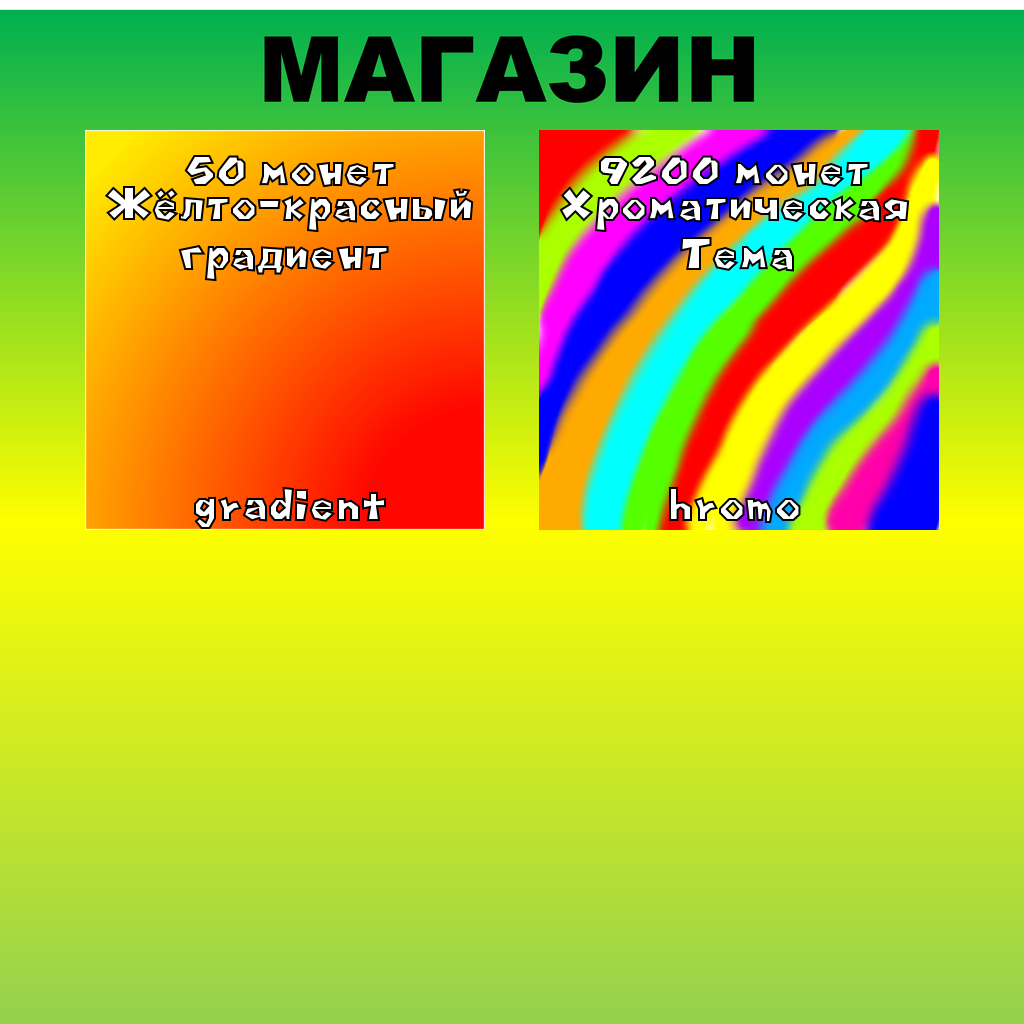
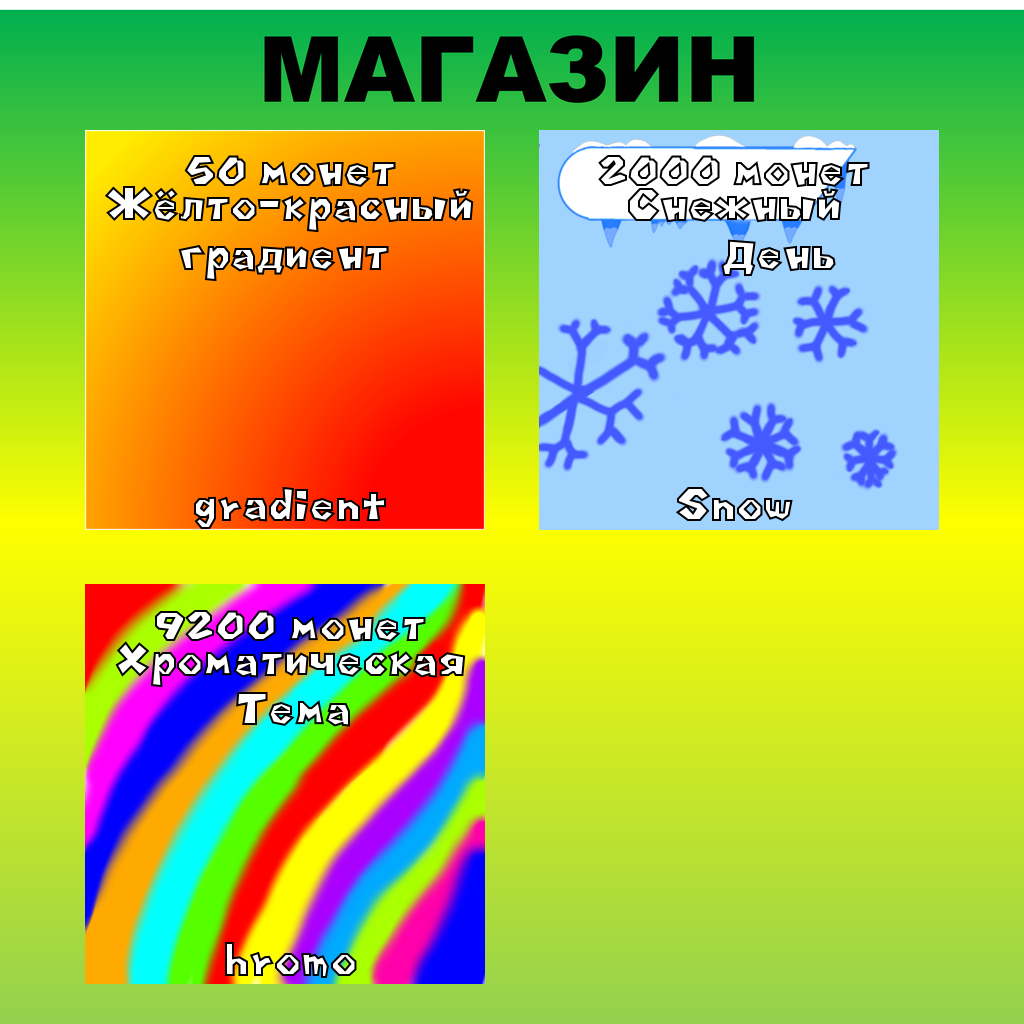
Working INVENTORY

Changed region(s): [[0.5, 0.125, 0.9375, 0.5312], [0.0625, 0.5625, 0.5, 0.9688]]

diff --git a/index.js b/index.js
@@ -28,6 +28,8 @@ client.on('messageCreate', msg => {
 
   if (msg.content.toLowerCase().startsWith('/shop'))
   {
+                    if (fs.existsSync('./data/UserData/' + msg.author.id + '/integers/exp')) 
+      {
     const args = msg.content.slice(`/био`).split(/ +/);
     if ((isNaN(Number(args[1])) == true) || (Number(args[1] == undefined)) || (args[1] == undefined || (args[1] == NaN))) { shopPage = 1} else {shopPage = Number(args[1])}
     console.log(shopPage)
@@ -87,10 +89,14 @@ shopNames.sort(function(a, b) {
 
     ctx.clearRect(0, 0, canvas.width, canvas.height);
     ctx.textAlign = 'center'
-  
+
+
+if (totalName[0] != undefined)
+{
 ctx.fillText(totalArray[0], 290, 520)
 ctx.fillText(totalPrice[0] + ' монет', 290, 185)
 ctx.fillText(totalName[0], 290, 220)
+}
 
 if (totalName[1] != undefined)
 {
@@ -116,10 +122,12 @@ if (totalName[3] != undefined)
 
 
 
-
+if (totalName[0] != undefined)
+{
 ctx.strokeText(totalArray[0], 290, 520)
 ctx.strokeText(totalPrice[0] + ' монет', 290, 185)
 ctx.strokeText(totalName[0], 290, 220)
+}
 
 if (totalName[1] != undefined)
 {
@@ -187,6 +195,181 @@ console.log(boughThemes)
         
      })
   }
+  }
+
+
+if ((msg.content.toLowerCase().startsWith('/inv ')) || (msg.content.toLowerCase().startsWith('/inventory ')) || (msg.content.toLowerCase() == '/inventory') || (msg.content.toLowerCase() == '/inv'))
+  {
+                  if (fs.existsSync('./data/UserData/' + msg.author.id + '/integers/exp')) 
+      {
+
+    const args = msg.content.slice(`/био`).split(/ +/);
+      pingedUser = args[1] 
+      if (args[1] == undefined) { pingedUser = msg.member.id}
+      pingedUser = pingedUser.replace("<@",'')
+      pingedUser = pingedUser.replace("!",'')
+      pingedUser = pingedUser.replace(">",'')
+
+    let pg = 1
+    console.log('Unresolved Num: ' + pingedUser)
+    if (Number(pingedUser) != NaN){ msg.reply('Число прошло')
+   }else {pingedUser = msg.member.id}
+  if (args[2] != undefined) { pg = args[2] } else
+  {
+    if ((args[1] != undefined) && (args[1].length > 5)) 
+    {
+      // msg.reply('Вариант 1')
+      pg = 1
+      pingedUser = args[1]
+    }else
+    {
+            // msg.reply('Вариант 2')
+     pg = 1
+     pingedUser =  msg.member.id
+    }
+
+
+        if ((args[1] != undefined) && (args[1].length < 5)) 
+    {
+            // msg.reply('Вариант 3')
+      pg = args[1]
+      pingedUser = msg.member.id
+    }else
+    {
+            // msg.reply('Вариант 4')
+     pg = 1
+    }
+  }
+        pingedUser = pingedUser.replace("<@",'')
+      pingedUser = pingedUser.replace("!",'')
+      pingedUser = pingedUser.replace(">",'')
+
+console.log('АЙДИ: ' + pingedUser)
+   if (fs.existsSync('./data/UserData/' + pingedUser))
+   { 
+     // msg.reply('Вариант 5')
+     }else{
+      // msg.reply('Вариант 6' + pingedUser)
+     pingedUser = msg.member.id
+
+   }
+       msg.reply(pingedUser + '|' + pg)
+    client.users.fetch(pingedUser).then(User => 
+  {
+
+
+
+
+    ctx.strokeStyle = 'black';
+    ctx.lineWidth = 2;
+    ctx.fillStyle = 'black';
+
+
+    ctx.clearRect(0, 0, canvas.width, canvas.height);
+    ctx.textAlign = 'left'
+    console.log(pingedUser)
+    console.log(args[5])
+    let UserHave = fs.readdirSync('./data/UserData/' + msg.author.id + '/themes')
+
+  console.log('ARRAY: ' + UserHave)
+let totalArray = ['empty','empty','empty','empty']
+let totalName = []
+
+
+    try {totalArray[0] = (UserHave[4*pg-4])}catch{}
+    try {totalArray[1] = (UserHave[4*pg-3])}catch{}
+    try {totalArray[2] = (UserHave[4*pg-2])}catch{}
+    try {totalArray[3] = (UserHave[4*pg-1])}catch{}
+
+
+    try {totalName[0] = (UserHave[4*pg-4])}catch{}
+    try {totalName[1] = (UserHave[4*pg-3])}catch{}
+    try {totalName[2] = (UserHave[4*pg-2])}catch{}
+    try {totalName[3] = (UserHave[4*pg-1])}catch{}
+
+
+if (totalName[0] != undefined)
+{
+ctx.fillText(totalArray[0], 290, 520)
+ctx.fillText(totalName[0], 290, 220)
+}
+
+if (totalName[1] != undefined)
+{
+  ctx.fillText(totalArray[1], 734, 520)
+  ctx.fillText(totalName[1], 734, 220)
+}
+
+if (totalName[2] != undefined)
+{
+  ctx.fillText(totalArray[2], 290, 975)
+  ctx.fillText(totalName[2], 290, 675)
+}
+
+if (totalName[3] != undefined)
+{
+  ctx.fillText(totalPrice[3], 734, 975)
+  ctx.fillText(totalName[3], 734, 675)
+}
+
+
+
+
+if (totalName[0] != undefined)
+{
+ctx.strokeText(totalArray[0], 290, 520)
+ctx.strokeText(totalName[0], 290, 220)
+}
+
+if (totalName[1] != undefined)
+{
+  ctx.strokeText(totalArray[1], 734, 520)
+  ctx.strokeText(totalName[1], 734, 220)
+}
+
+if (totalName[2] != undefined)
+{
+  ctx.strokeText(totalArray[2], 290, 975)
+  ctx.strokeText(totalName[2], 290, 675)
+}
+
+if (totalName[3] != undefined)
+{
+  ctx.strokeText(totalPrice[3], 734, 975)
+  ctx.strokeText(totalName[3], 734, 675)
+}
+
+let out = fs.createWriteStream('invtemp.png')
+let stream = canvas.createPNGStream()
+stream.pipe(out)
+out.on('finish', () =>  { console.log('The PNG file was created.') 
+
+
+console.log('0]./Background/' + totalArray[0] + '/icon.png')
+console.log('1]./Background/' + totalArray[1] + '/icon.png')
+console.log('2]./Background/' + totalArray[2] + '/icon.png')
+console.log('3]./Background/' + totalArray[3] + '/icon.png')
+
+            sharp('./Images/shop.png')
+            .resize(1024, 1024)
+            .composite([
+              { input: './Background/' + totalArray[0] + '/icon.png', top: 130, left: 85},
+               {input: './Background/' + totalArray[1] + '/icon.png', top: 130, left: 539},
+               { input: './Background/' + totalArray[2] + '/icon.png', top: 584, left: 85},
+               {input: './Background/' + totalArray[3] + '/icon.png', top: 584, left: 539}
+               
+              // { input: 'invtemp.png', top: 0, left: 0}
+              ])
+            .toFile('inv' + pingedUser + '.png', function(err) {
+              console.log(err)
+              msg.channel.send({files: ['inv' + pingedUser + '.png']});
+              });
+        });
+    })
+  }
+}
+
+
 
 if (msg.content.toLowerCase() == '/start')
   {
@@ -220,7 +403,7 @@ if (msg.content.toLowerCase() == '/start')
               if (err) throw err;
               console.log('Данные были добавлены в конец файла!');
             });
-            fs.writeFileSync(filepath + '/config/theme', '0', 'utf8', (err) => {
+            fs.writeFileSync(filepath + '/config/theme', 'default', 'utf8', (err) => {
               if (err) throw err;
               console.log('Данные были добавлены в конец файла!');
             });
@@ -419,11 +602,11 @@ if (fs.existsSync('./data/UserData/' + msg.author.id))
   if (msg.content == '/respecc')
   {
 const respecc = new MessageEmbed()
-    .setColor('#1122ff')
-    .setTitle('Оплот гнева')
-    .setAuthor('Мистический Войн#7899', 'https://media.discordapp.net/attachments/698853696817070164/911547857159467059/prize-clipart-transparent-background-4-removebg-preview.png')
-    .setDescription('**__<@647440980831633420>__ - сделал огромный вклад в дела сервера. Находится на нём с 2019 года и по сей день. Являлся важным реформатором в истории Роносервера. Совершил несколько государственных переворотов (первый 6 марта). После этого создал свою партию "ОПЛОТ ГНЕВА", которая позже стала отдельной независимой организацией. Являлся владельцем и распоряжителем по делам Роносервера на время жизни на Звезде. Ввёл очень огромное количество реформ и изменений. Является близким другом Рони, с которым он знаком ещё до его карьеры, а также парнем <@593368946540019741>, которая рисует замечательные рисунки в <#671026327016701953>**')
-    .setThumbnail('https://media.discordapp.net/attachments/698853696817070164/915719011101188167/unknown.png')
+    .setColor('#7d1a39')
+    .setTitle('Хороший админ и активный член сервера')
+    .setAuthor('❄vitapich❄#1556', 'https://media.discordapp.net/attachments/698853696817070164/911547857159467059/prize-clipart-transparent-background-4-removebg-preview.png')
+    .setDescription('**__<@516248331450712077>__ - активный член сервера, на котором он находится с 2019 года. В марте 2020 года стал админом и после этого проявлял наиболее большой актив. Самый крупный можно найти на протяжении марта-июня 2020 года и мая-июля 2021 года. Является рекордсменом по голосовой активности и варьирует в районе второго места)**')
+    .setThumbnail('https://media.discordapp.net/attachments/661143573261189140/839681707208736798/29a4b1625b9ddcc0e54ac491abad68ca-1.png')
     .setFooter('Ronoserver Services - звено Статистики', 'https://images-ext-2.discordapp.net/external/SLnaCFfbKRV2BQGkU1zVy9VhwyqdeNXw5Fu-bNMJjCk/https/media.discordapp.net/attachments/768414683019345931/841704850139906108/9b6a4cc843e31c1e.png')
 
 
